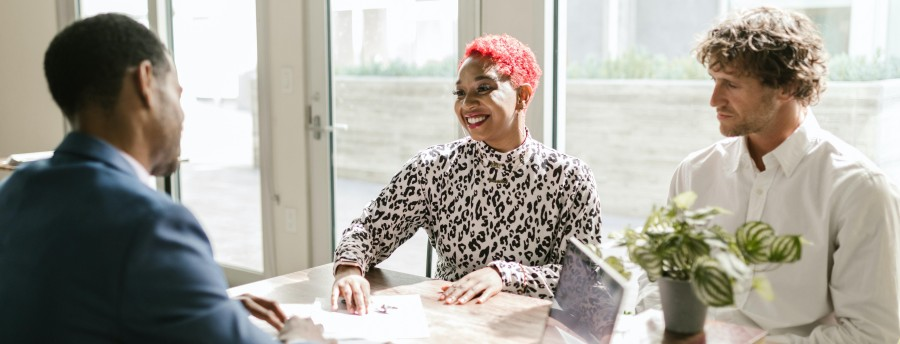
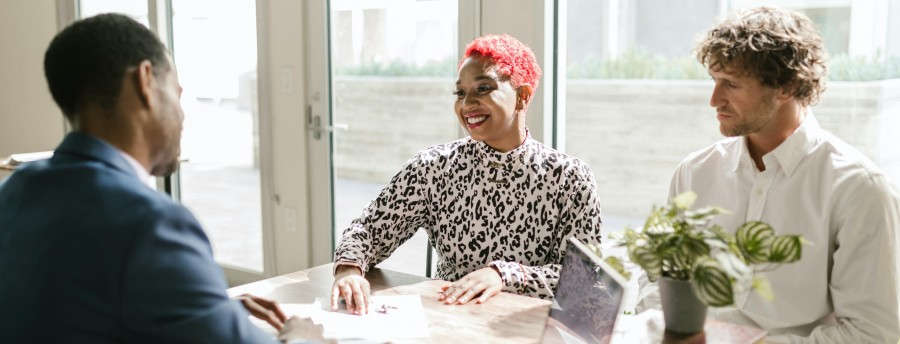
changed image compression to reduce site weight

diff --git a/chamber/index.html b/chamber/index.html
@@ -5,7 +5,7 @@
   <meta charset="UTF-8">
   <meta http-equiv="X-UA-Compatible" content="IE=edge">
   <meta name="viewport" content="width=device-width, initial-scale=1.0">
-  <meta name="description" content="Serving the town of Anchorship since 2020">
+  <meta name="description" content="Anchorship Chamber of Commerce: Serving the town of Anchorship since 2020">
   <title>Anchorship Chamber of Commerce</title>
 
   <!-- Favicon -->

diff --git a/chamber/css/small.css b/chamber/css/small.css
@@ -270,7 +270,7 @@ button:hover {
 }
 
 .weatherSprite {
-	background: url('../images/weather.png') no-repeat 12.81% 49.516%;
+	background: url('../images/weather.webp') no-repeat 12.81% 49.516%;
 	background-size: 625px 625px;
 	width: 122px;
 	height: 108px;
